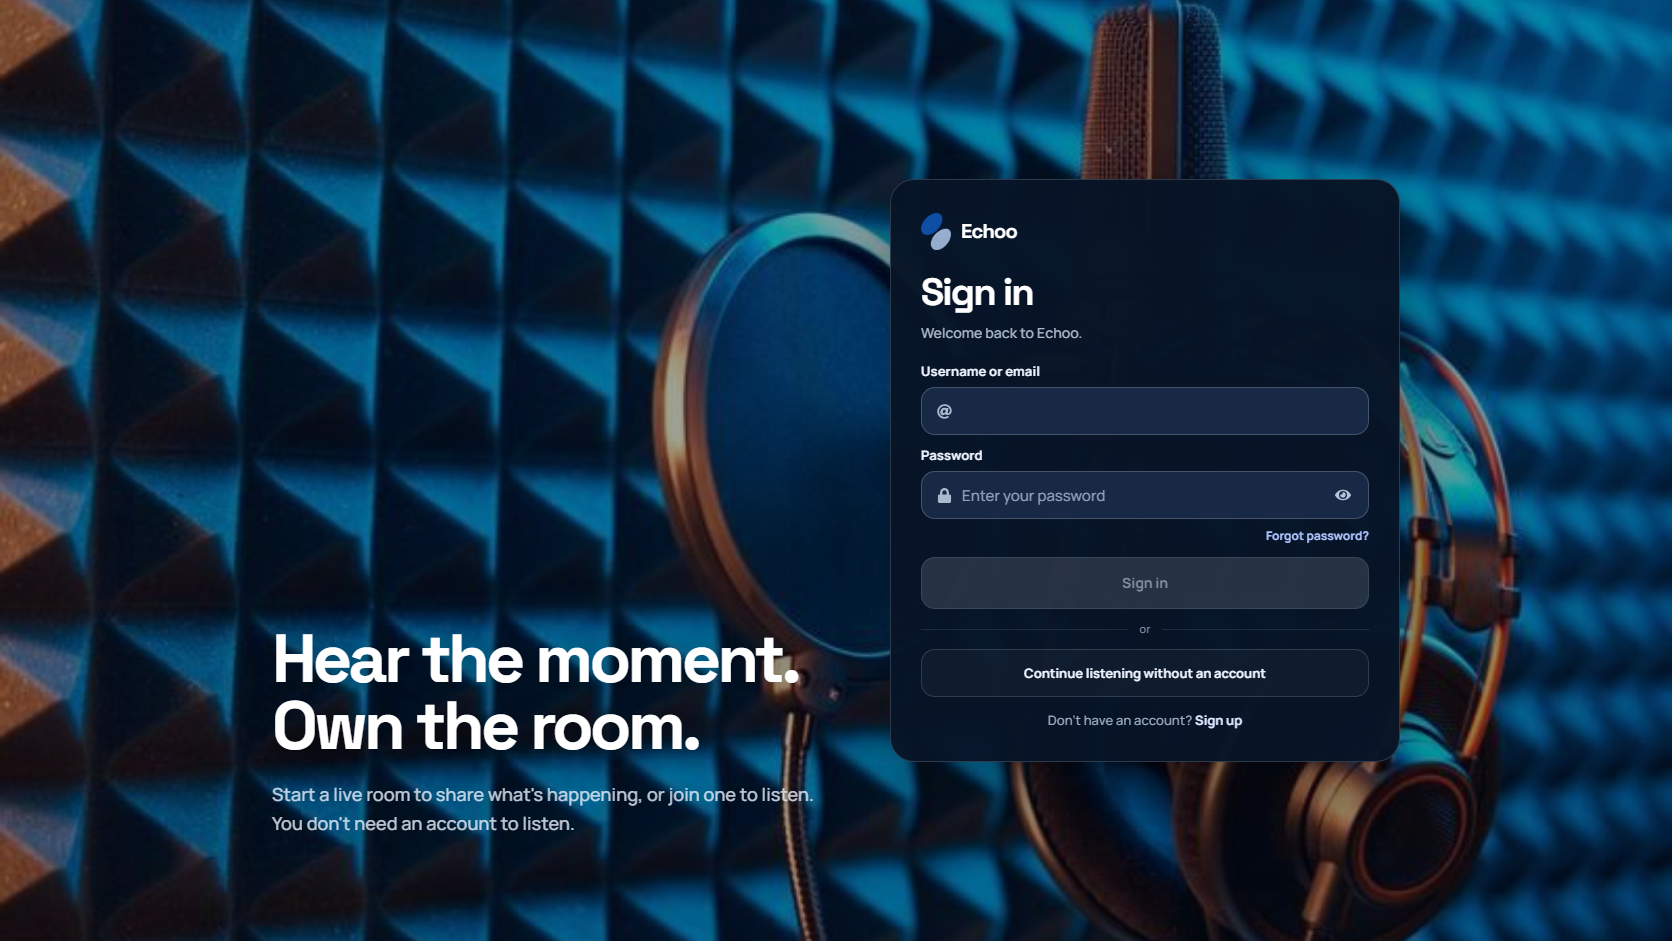
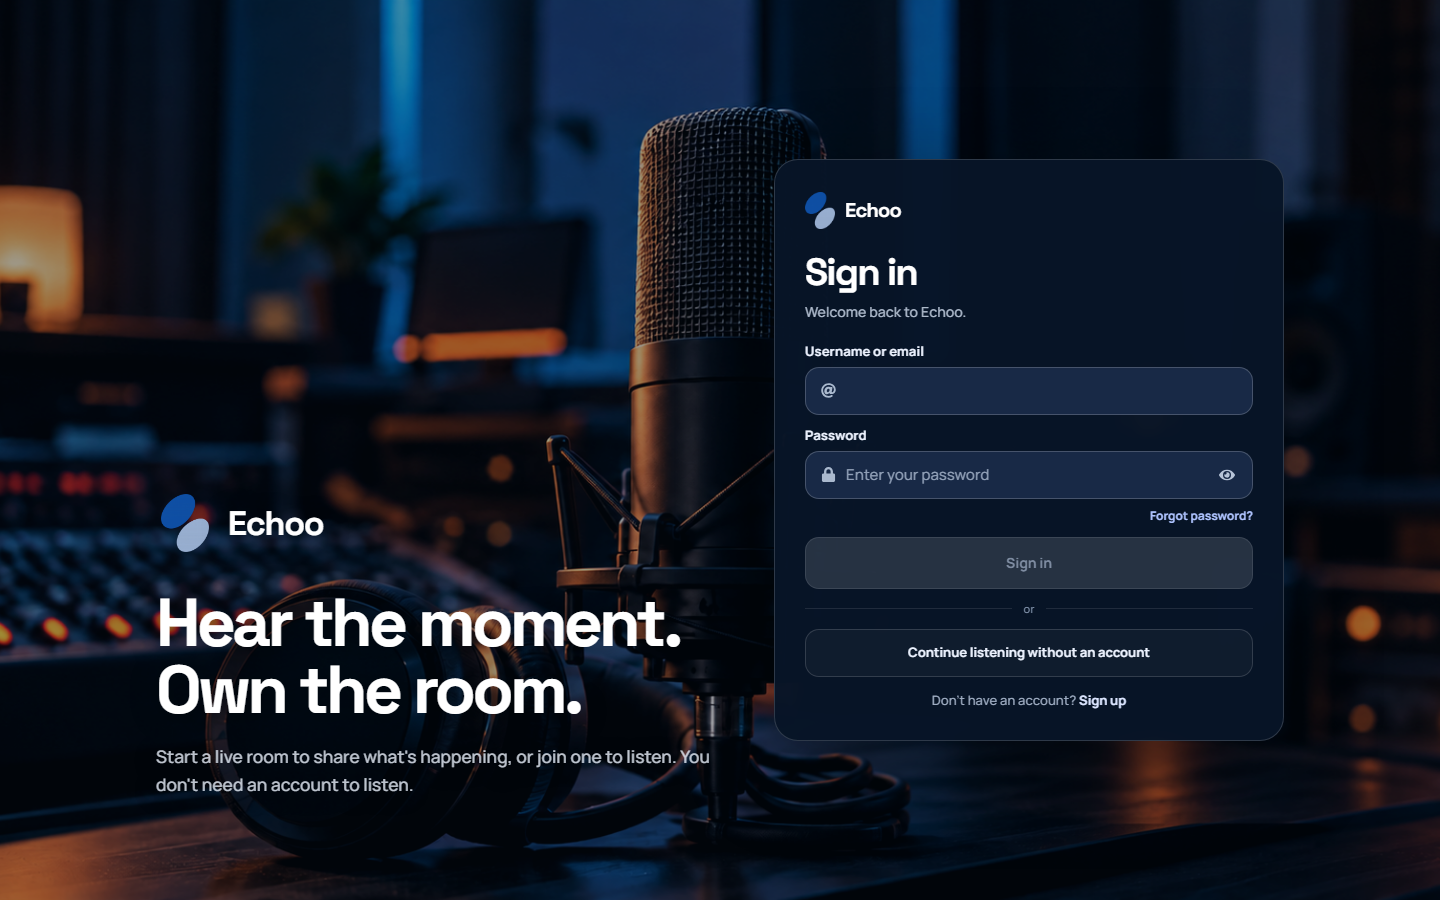
Use approved studio artwork for Echoo authentication

diff --git a/frontend/src/Components/Register/auth-reference.css b/frontend/src/Components/Register/auth-reference.css
@@ -35,7 +35,7 @@
   position: fixed;
   inset: 0;
   z-index: 0;
-  background-image: var(--ear-auth-background-image, url('../Assets/echoo-auth-studio-reference.jpg'));
+  background-image: var(--ear-auth-background-image, url('../Assets/echoo-auth-studio-reference-v2.png'));
   background-size: cover;
   background-position: center 44%;
   background-repeat: no-repeat;
@@ -72,6 +72,24 @@
 .ear-auth-story-copy {
   width: min(690px, 100%);
   text-shadow: 0 4px 28px rgba(0,0,0,.36);
+}
+
+.ear-story-brand {
+  display: inline-flex;
+  align-items: center;
+  gap: 14px;
+  margin-bottom: 38px;
+  color: #fff;
+  font-family: "Space Grotesk", Manrope, sans-serif;
+  font-size: 34px;
+  font-weight: 700;
+  letter-spacing: -.035em;
+}
+
+.ear-story-brand img {
+  width: 58px;
+  height: 58px;
+  object-fit: contain;
 }
 
 .ear-auth-story-kicker {
@@ -491,6 +509,7 @@
     align-self: auto;
     padding: 24px 4px 10px;
   }
+  .ear-story-brand { display: none; }
   .ear-auth-story h2 { font-size: clamp(34px, 8vw, 48px); }
   .ear-auth-story p { margin-top: 12px; font-size: 14px; line-height: 1.5; }
 

diff --git a/frontend/src/Components/Register/register.jsx b/frontend/src/Components/Register/register.jsx
@@ -16,7 +16,7 @@ import {
 } from "react-icons/fa";
 
 import EchooLogoImage from "../Assets/echoo-logo-mark.png";
-import EchooAuthBackground from "../Assets/echoo-auth-studio-reference.jpg";
+import EchooAuthBackground from "../Assets/echoo-auth-studio-reference-v2.png";
 import LoadingButton from "../UI/LoadingButton";
 import Toast from "../UI/Toast";
 
@@ -359,6 +359,10 @@ const Register = ({ onAccountCreated, onLoginSuccess }) => {
       <div className="ear-auth-shell">
         <aside className="ear-auth-story" aria-label="About Echoo">
           <div className="ear-auth-story-copy">
+            <div className="ear-story-brand" aria-label="Echoo">
+              <img src={EchooLogoImage} alt="" />
+              <span>Echoo</span>
+            </div>
             <h2>Hear the moment.<br />Own the room.</h2>
             <p>Start a live room to share what&apos;s happening, or join one to listen. You don&apos;t need an account to listen.</p>
           </div>
